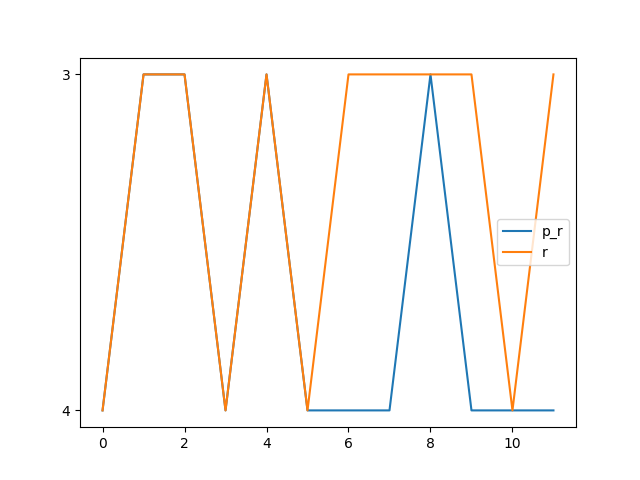
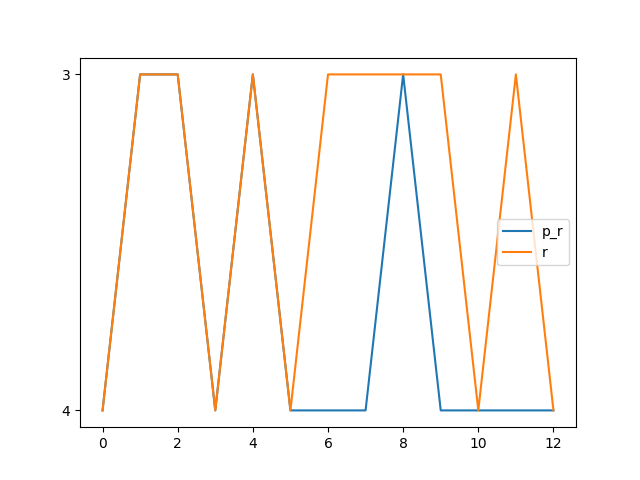
0x000C

diff --git a/benchmark.md b/benchmark.md
@@ -24,6 +24,8 @@ Synthesising 0x000A pexact:182 r=4 exact:352 r=4
 
 Synthesising 0x000B pexact:182 r=4 exact:216 r=3
 
+Synthesising 0x000C pexact:182 r=4 exact:320 r=4
+
 <img src=benchmark_r.png? width=400 heigth=400>
 
 <img src=benchmark_s.png? width=400 heigth=400>
